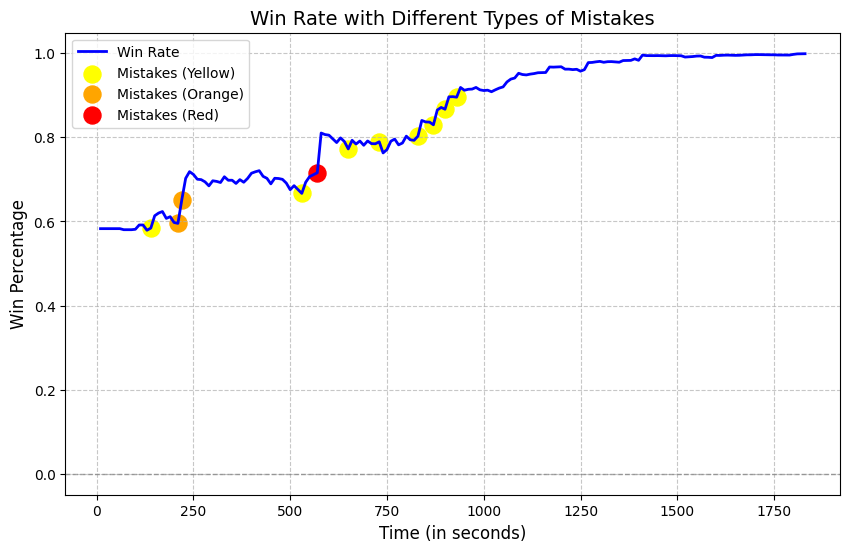
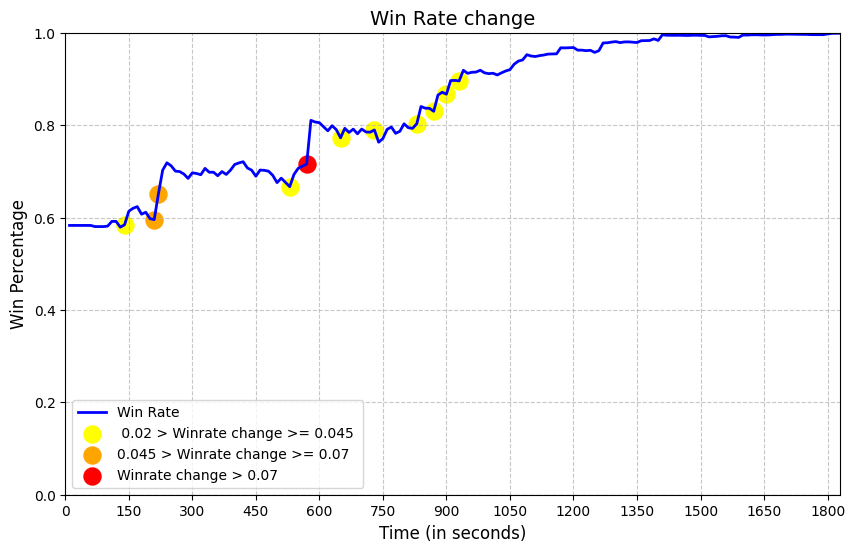
change to visual output

diff --git a/graph.py b/graph.py
@@ -48,27 +48,30 @@ for file_name in file_list:
                    color='yellow',
                    marker='o',
                    s=150,
-                   label='Mistakes (Yellow)')
+                   label=f' {threshold_yellow[0]} > Winrate change >= {threshold_yellow[1]} ')
 
         ax.scatter([x_values[ind] for ind in orange_indices],
                    [win_rates_team_1[ind] for ind in orange_indices],
                    color='orange',
                    marker='o',
                    s=150,
-                   label='Mistakes (Orange)')
+                   label=f'{threshold_orange[0]} > Winrate change >= {threshold_orange[1]} ')
 
         ax.scatter([x_values[ind] for ind in red_indices],
                    [win_rates_team_1[ind] for ind in red_indices],
                    color='red',
                    marker='o',
                    s=150,
-                   label='Mistakes (Red)')
+                   label=f'Winrate change > {threshold_red} ')
 
         # Add labels, title, legend, etc.
+        ax.set_ylim(0, 1)
+        ax.set_xlim(min(x_values), max(x_values))
+        ax.set_xticks(range(0, max(x_values) + 1, 150))
         ax.set_xlabel('Time (in seconds)', fontsize=12)
         ax.set_ylabel('Win Percentage', fontsize=12)
         ax.axhline(y=0, color='gray', linestyle='--', linewidth=1, alpha=0.7)
-        ax.set_title('Win Rate with Different Types of Mistakes', fontsize=14)
+        ax.set_title('Win Rate change', fontsize=14)
         ax.grid(True, linestyle='--', alpha=0.7)
         ax.legend()
 
